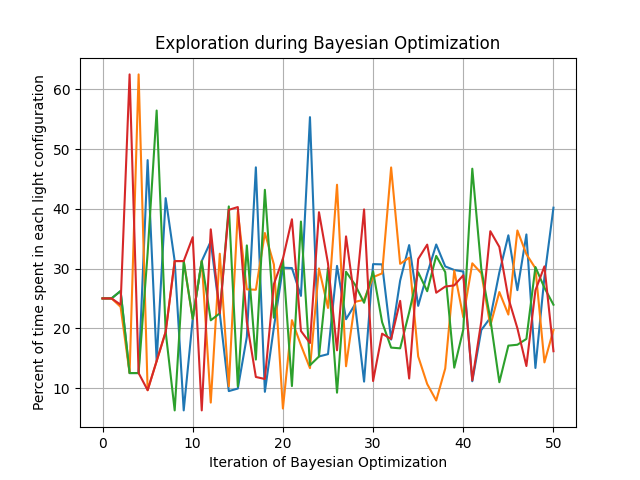
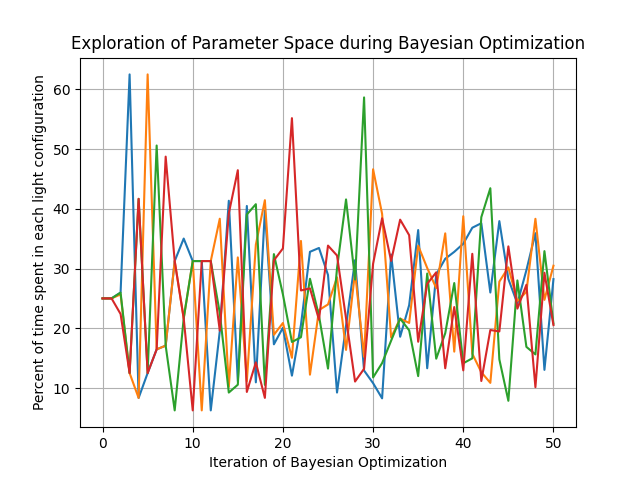
better graph

Changed region(s): [[0.1562, 0.1562, 0.875, 0.875], [0.0938, 0.0625, 0.9062, 0.125]]

diff --git a/xdraft/emulator.py b/xdraft/emulator.py
@@ -116,14 +116,14 @@ class emu():
                                     X=x_init, Y=y_init,batch_size=1)
         bo.run_optimization(user_function, iterations)
 
-        best_per_it = np.maximum.accumulate(bo.loop_state.Y)
+        best_per_it = np.minimum.accumulate(bo.loop_state.Y)
         best_result = np.max(bo.loop_state.Y)
         best_config = bo.loop_state.X[np.where(bo.loop_state.Y == best_result)]
         return best_result,best_config,best_per_it,bo.loop_state
 
 
 if __name__ == '__main__':
-    picklename = "emulator_test_many_iterations.pkl"
+    picklename = "emulator_next.pkl"
     explore_iterations = 400
     optimize_iterations = 50
     from_pickle = True
@@ -152,8 +152,8 @@ if __name__ == '__main__':
     fig, ax = plt.subplots()
     ax.plot(xs, ys)
 
-    ax.set(xlabel='Iteration of Bayesian Optimization', ylabel='Mean Speed (% of speed limit)',
-           title='Highest Discovered Mean Speed (% of speed limit) After ' + str(optimize_iterations) + ' Iterations of Bayesian Optimization')
+    ax.set(xlabel='Iteration of Bayesian Optimization', ylabel='Highest Discovered Mean Speed (% of speed limit)',
+           title='Discovery of Best Configuration with Bayesian Optimization')
     ax.grid()
 
     fig.savefig("bo_results.png")
@@ -172,7 +172,7 @@ if __name__ == '__main__':
         ax.plot(xs, y)
 
     ax.set(xlabel='Iteration of Bayesian Optimization', ylabel='Percent of time spent in each light configuration',
-           title='Exploration during Bayesian Optimization')
+           title='Exploration of Parameter Space during Bayesian Optimization')
     ax.grid()
     fig.savefig("bo_config.png")
     plt.show()
